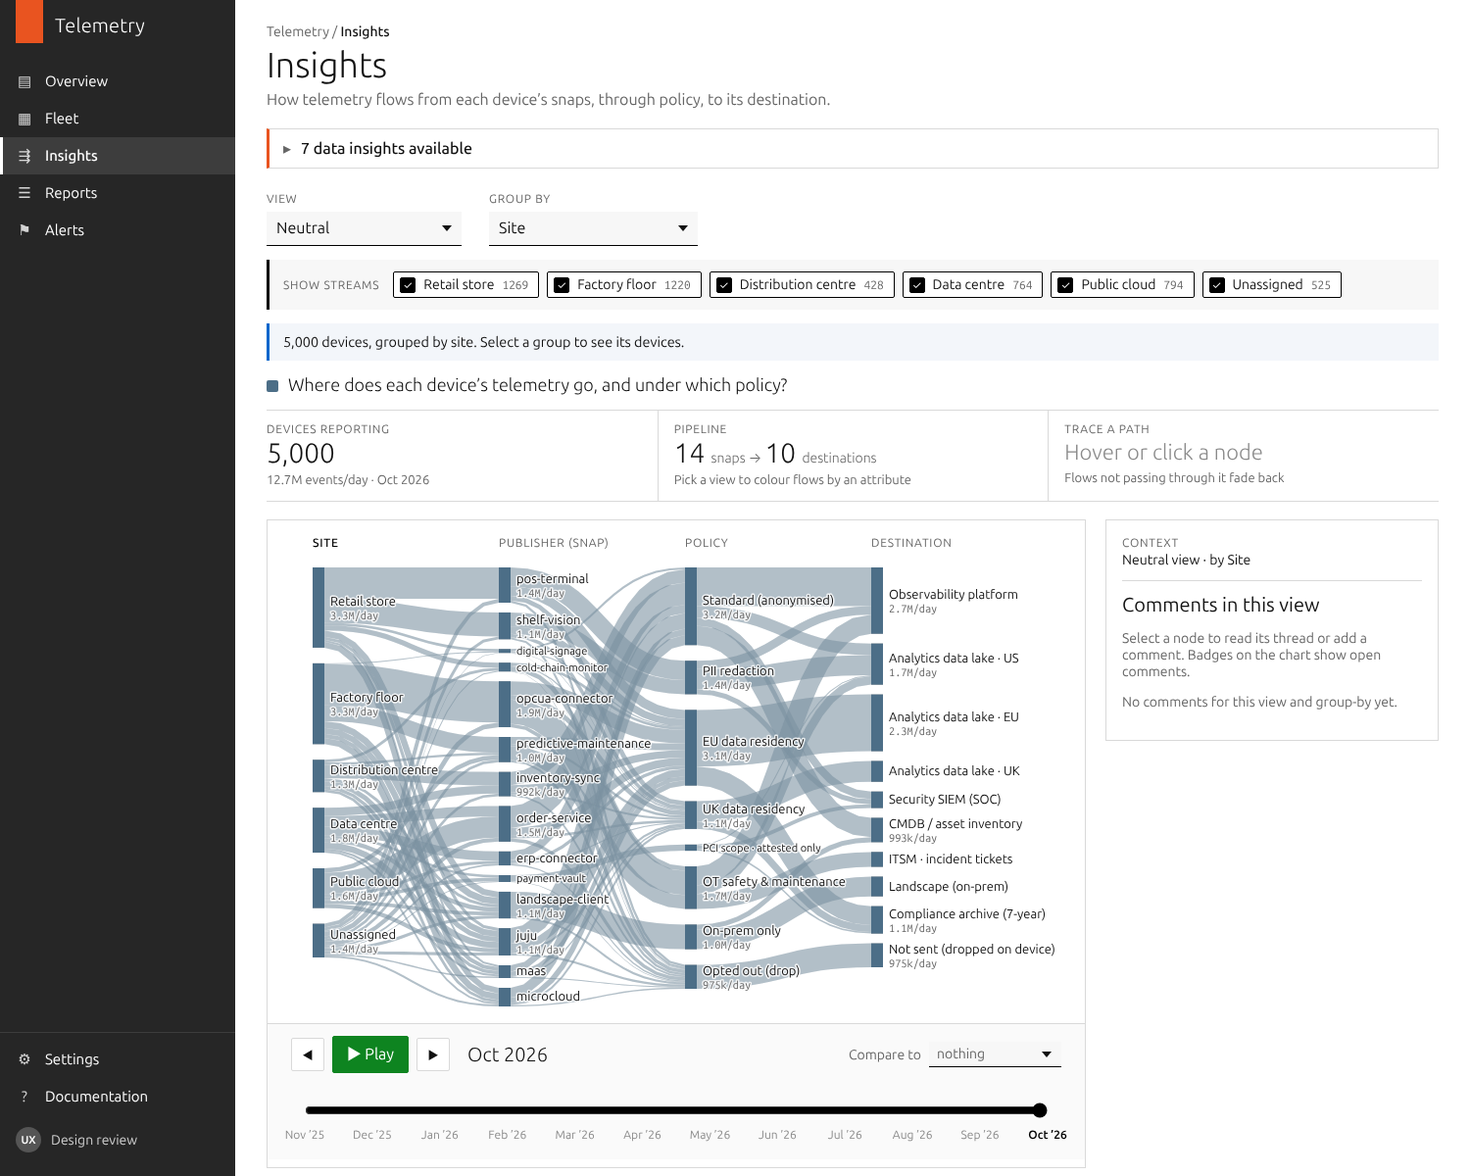
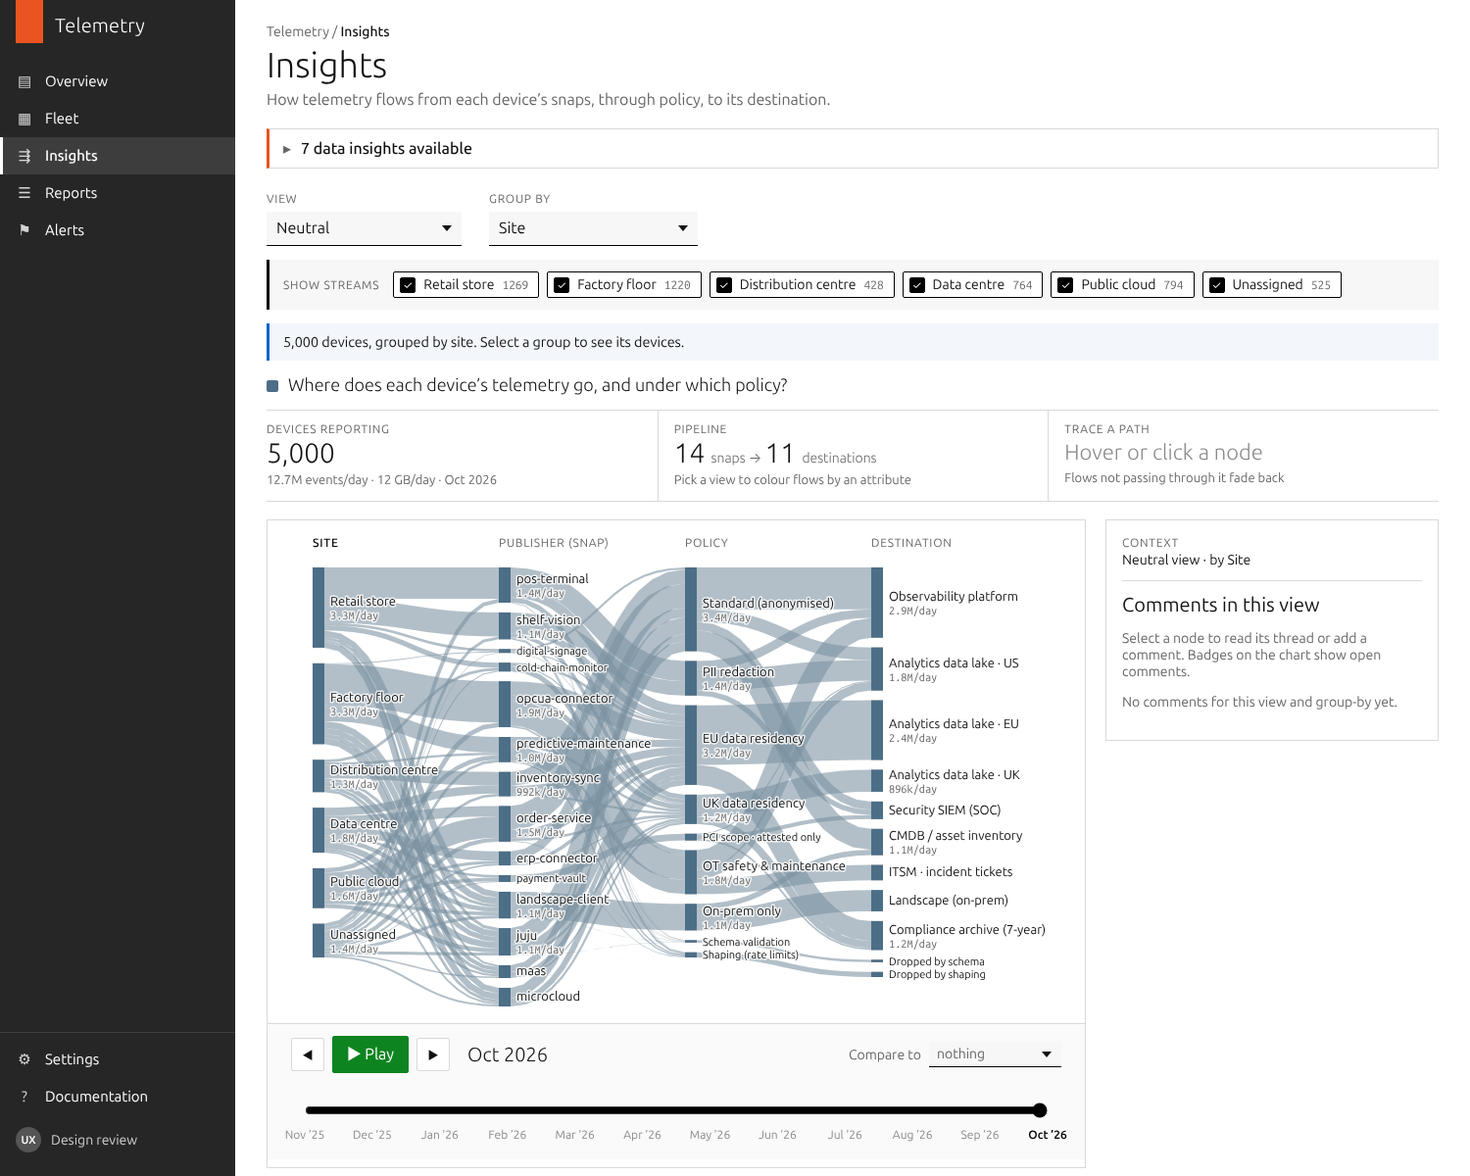
Show data volume, schema/shaping drops and energy coverage
- Drops: replace the opt-out route with 'Dropped by schema' and 'Dropped
  by shaping' (policy nodes + destinations), counted where they happen.
  Schema drops spike for opcua-connector during the Jun/Jul incident.
- Volume: per-snap event sizes give MB/GB per day next to event counts
  in tooltips, the Devices reporting KPI and the pipeline table; the
  endpoint stage shows what was dropped.
- Energy KPI states coverage (measured across N of M devices).
Health, lifecycle and energy data are unchanged.

Claude-Session: https://claude.ai/code/session_0156BKrAD5wHGfcWHmuamSMf

Changed region(s): [[0.3373, 0.4933, 0.7053, 0.8633], [0.6133, 0.4933, 0.6747, 0.5242], [0.276, 0.4008, 0.3373, 0.4317]]

diff --git a/js/app.js b/js/app.js
@@ -368,11 +368,13 @@
   let pipeOpen = false; // destination details collapsed by default
   function drawPipeline() {
     const pi = periodIndex(), ph = TL.pipelineHealth(pi), facts = TL.snapshot(pi);
-    const devs = {}, toDest = {};
-    let received = 0;
+    const devs = {}, toDest = {}, toDestB = {}, dropped = { 'drop-schema': 0, 'drop-shaping': 0 };
+    let received = 0, receivedB = 0;
     facts.forEach(function (f) {
       devs[f.device] = Object.getPrototypeOf(f).reporting;
-      if (f.destination !== 'discard') { received += f.count; toDest[f.destination] = (toDest[f.destination] || 0) + f.count; }
+      received += f.count; receivedB += f.bytes;
+      if (f.destination in dropped) { dropped[f.destination] += f.count; return; }
+      toDest[f.destination] = (toDest[f.destination] || 0) + f.count; toDestB[f.destination] = (toDestB[f.destination] || 0) + f.bytes;
     });
     const ids = Object.keys(devs), ok = ids.filter(function (id) { return devs[id] === 'reporting'; }).length;
     const partial = ids.filter(function (id) { return devs[id] === 'partial'; }).length;
@@ -382,6 +384,7 @@
       return '<tr class="' + (d.status !== 'healthy' ? 'is-degraded' : '') + '" data-pipe-node="destination:' + v.id + '" tabindex="0">' +
         '<td>' + esc(v.label) + (d.note ? '<span class="p-pipeline__note">' + esc(d.note) + '</span>' : '') + '</td>' +
         '<td class="u-num">' + fmt(toDest[v.id] * d.delivered / 100) + '/day</td>' +
+        '<td class="u-num">' + fmtBytes(toDestB[v.id] * d.delivered / 100) + '/day</td>' +
         '<td class="u-num">' + d.delivered.toFixed(d.delivered < 99.9 ? 1 : 2) + '%</td>' +
         '<td class="u-num">' + (d.p95Ms >= 10000 ? Math.round(d.p95Ms / 1000) + ' s' : (d.p95Ms / 1000).toFixed(1) + ' s') + '</td>' +
         '<td>' + badge(d.status) + '</td></tr>';
@@ -398,7 +401,8 @@
         '<div class="p-pipeline__arrow" aria-hidden="true">→</div>' +
         '<div class="p-pipeline__stage"><span class="p-field__label">Telemetry endpoint</span>' +
           '<div class="p-pipeline__big">' + badge('healthy') + ' <span class="p-kpi__unit">' + ph.endpoint.availability.toFixed(2) + '% available</span></div>' +
-          '<div class="p-pipeline__sub">p95 ingest ' + (ph.endpoint.p95IngestMs / 1000).toFixed(1) + ' s · ' + fmt(received) + ' events/day received</div></div>' +
+          '<div class="p-pipeline__sub">p95 ingest ' + (ph.endpoint.p95IngestMs / 1000).toFixed(1) + ' s · ' + fmt(received) + ' events/day (' + fmtBytes(receivedB) + ') received</div>' +
+          '<div class="p-pipeline__sub">Dropped: ' + fmt(dropped['drop-schema']) + ' by schema · ' + fmt(dropped['drop-shaping']) + ' by shaping</div></div>' +
         '<div class="p-pipeline__arrow" aria-hidden="true">→</div>' +
         '<div class="p-pipeline__stage"><span class="p-field__label">Destinations</span>' +
           '<div class="p-pipeline__big">' + (degraded ? badge('degraded') + ' <span class="p-kpi__unit">' + degraded + ' of ' + Object.keys(toDest).length + ' degraded</span>' : badge('healthy') + ' <span class="p-kpi__unit">all ' + Object.keys(toDest).length + ' healthy</span>') + '</div>' +
@@ -406,7 +410,7 @@
       '</div>' +
       '<button type="button" class="p-pipeline__toggle" data-pipe-toggle aria-expanded="' + pipeOpen + '" aria-controls="pipeline-details">' +
         '<span class="p-insights__chevron" aria-hidden="true">▸</span>' + (pipeOpen ? 'Hide' : 'Show') + ' destination details</button>' +
-      '<div class="p-pipeline__tablewrap" id="pipeline-details"' + (pipeOpen ? '' : ' hidden') + '><table class="p-pipeline__table"><thead><tr><th>Destination</th><th class="u-num">Delivered</th><th class="u-num">Success</th><th class="u-num">p95 latency</th><th>Status</th></tr></thead><tbody>' + rows + '</tbody></table></div>';
+      '<div class="p-pipeline__tablewrap" id="pipeline-details"' + (pipeOpen ? '' : ' hidden') + '><table class="p-pipeline__table"><thead><tr><th>Destination</th><th class="u-num">Events</th><th class="u-num">Volume</th><th class="u-num">Success</th><th class="u-num">p95 latency</th><th>Status</th></tr></thead><tbody>' + rows + '</tbody></table></div>';
   }
   $('pipeline-health').addEventListener('click', function (e) {
     if (e.target.closest('[data-pipe-toggle]')) { pipeOpen = !pipeOpen; drawPipeline(); return; }
@@ -424,7 +428,8 @@
     const t = tab(), a = attr(), pi = periodIndex();
     const counts = deviceCounts(pi, view().attr);
     const items = [];
-    items.push(kpi('Devices reporting', counts._total.toLocaleString('en-GB'), fmt(agg.total) + ' events/day · ' + (t.time ? TL.monthLabel(TL.MONTHS[pi]) : 'latest month (' + TL.monthLabel(TL.MONTHS[LAST]) + ')')));
+    let aggBytes = 0; Object.keys(agg.nodes).forEach(function (k) { if (agg.nodes[k].col === 0) aggBytes += agg.nodes[k].b || 0; });
+    items.push(kpi('Devices reporting', counts._total.toLocaleString('en-GB'), fmt(agg.total) + ' events/day · ' + fmtBytes(aggBytes) + '/day · ' + (t.time ? TL.monthLabel(TL.MONTHS[pi]) : 'latest month (' + TL.monthLabel(TL.MONTHS[LAST]) + ')')));
     // distribution bar for the view attribute
     const bar = a.values.map(function (v) {
       const c = counts[v.id] || 0; if (!c) return '';
@@ -434,7 +439,7 @@
     if (isNeutral()) {
       // no breakdown to report: summarise the pipeline instead
       const pubs = {}, dests = {};
-      Object.keys(agg.nodes).forEach(function (k) { const n = agg.nodes[k]; if (n.dim === 'publisher') pubs[k] = 1; if (n.dim === 'destination') dests[k] = 1; });
+      Object.keys(agg.nodes).forEach(function (k) { const n = agg.nodes[k]; if (n.dim === 'publisher') pubs[k] = 1; if (n.dim === 'destination' && !TL.valueOf('destination', n.val).drop) dests[k] = 1; });
       items.push(kpi('Pipeline', Object.keys(pubs).length + ' <span class="p-kpi__unit">snaps → </span>' + Object.keys(dests).length + ' <span class="p-kpi__unit">destinations</span>',
         'Pick a view to colour flows by an attribute'));
     } else if (view().attr === 'reporting' && !iso) {
@@ -455,7 +460,8 @@
       const e = energyAt(pi);
       items.push(kpi('Measured energy',
         (e.total >= 1000 ? (e.total / 1000).toFixed(1) + ' <span class="p-kpi__unit">MWh/month</span>' : Math.round(e.total) + ' <span class="p-kpi__unit">kWh/month</span>'),
-        e.idle + ' idle device' + (e.idle === 1 ? '' : 's') + ' still powered on · ' + Math.round(e.idleKwh) + ' kWh/month<span class="p-dist">' + bar + '</span>',
+        'Measured across ' + e.measured.toLocaleString('en-GB') + ' of ' + e.devices.toLocaleString('en-GB') + ' devices · ' +
+        e.idle + ' idle device' + (e.idle === 1 ? '' : 's') + ' still powered on (' + Math.round(e.idleKwh) + ' kWh)<span class="p-dist">' + bar + '</span>',
         t.time ? sparkline(TL.MONTHS.map(function (_, m) { return energyAt(m).total; }), TL.valueOf('energy', 'e4').color) : ''));
     } else if (view().attr === 'health' && !iso) {
       // health is a score: show the fleet average and its trend
@@ -499,16 +505,23 @@
   }
   // measured energy across (filtered) devices in month m, plus the idle-but-powered share
   const energyAt = memoised('energy', energyAtRaw);
+  // data volume (bytes per day) for display next to event counts
+  function fmtBytes(b) {
+    b = b || 0;
+    if (b >= 1e9) return (b / 1e9).toFixed(b >= 1e10 ? 0 : 1) + ' GB';
+    if (b >= 1e6) return (b / 1e6).toFixed(b >= 1e7 ? 0 : 1) + ' MB';
+    return Math.round(b / 1e3) + ' KB';
+  }
   function energyAtRaw(m) {
-    const seen = {}, f = filterFn(); let total = 0, idle = 0, idleKwh = 0;
+    const seen = {}, f = filterFn(); let total = 0, idle = 0, idleKwh = 0, measured = 0, devices = 0;
     TL.snapshot(m).forEach(function (x) {
       if (seen[x.device] || (f && !f(x))) return;
-      seen[x.device] = 1;
+      seen[x.device] = 1; devices++;
       if (x.energyKwh == null) return;
-      total += x.energyKwh;
+      measured++; total += x.energyKwh;
       if (x.idle) { idle++; idleKwh += x.energyKwh; }
     });
-    return { total: total, idle: idle, idleKwh: idleKwh };
+    return { total: total, idle: idle, idleKwh: idleKwh, measured: measured, devices: devices };
   }
   function bandOf(score) {
     score = Math.round(score);
@@ -756,7 +769,7 @@
     const l = lastLayout && lastLayout.links.filter(function (x) { return x.key === key; })[0];
     if (!l) return '';
     return '<strong>' + esc(TL.nodeLabel(l.source)) + ' → ' + esc(TL.nodeLabel(l.target)) + '</strong>' +
-      '<div>' + fmt(l.value) + ' events/day</div>' + segBreakdown(l.seg, l.value);
+      '<div>' + fmt(l.value) + ' events/day · ' + fmtBytes(l.b) + '/day</div>' + segBreakdown(l.seg, l.value);
   }
   function tipForNode(id) {
     const n = lastLayout && lastLayout.nodes.filter(function (x) { return x.id === id; })[0];
@@ -766,7 +779,7 @@
     if (n.dim === 'device' && n.val === '__others') {
       const top = topSet();
       return '<div class="tooltip__dim">Devices outside the top ' + LADDER.top + '</div><strong>' + esc(v.label) + '</strong>' +
-        '<div>' + fmt(n.value) + ' events/day · ' + Math.round((top ? top.share : 0) * 100) + '% of telemetry</div>' +
+        '<div>' + fmt(n.value) + ' events/day · ' + fmtBytes(n.b) + '/day · ' + Math.round((top ? top.share : 0) * 100) + '% of telemetry</div>' +
         (top && top.attention && top.attention.inOthers ? '<div>Includes ' + top.attention.inOthers.toLocaleString('en-GB') + ' ' + esc(top.attention.label) + '</div>' : '') +
         segBreakdown(n.seg, n.value) + '<div class="tooltip__hint">Group devices, or search, to see them individually</div>';
     }
@@ -798,11 +811,12 @@
     }
     if (n.dim === 'policy') {
       const rules = TL.ROUTING.filter(function (r) { return r.policy === n.val; });
-      body += '<div class="tooltip__hint">Rule ' + rules.map(function (r) { return r.id; }).join(', ') + '</div>';
+      body += '<div class="tooltip__hint">' + (rules.length ? 'Rule ' + rules.map(function (r) { return r.id; }).join(', ')
+        : 'Applied to every snap before routing rules; dropped events are counted') + '</div>';
     }
     const cnt = tab().comments ? (TL.comments.counts(ctx())[id] || 0) : 0;
     return '<div class="tooltip__dim">' + esc(TL.DIMENSIONS[n.dim].label) + '</div>' +
-      '<strong>' + esc(v.label) + '</strong><div>' + fmt(n.value) + ' events/day</div>' + body +
+      '<strong>' + esc(v.label) + '</strong><div>' + fmt(n.value) + ' events/day · ' + fmtBytes(n.b) + '/day</div>' + body +
       '<div class="tooltip__hint">' + (pinned === id ? (cnt ? cnt + ' comment' + (cnt > 1 ? 's' : '') + ' in the panel' : 'Add a comment in the panel') :
         (cnt ? cnt + ' comment' + (cnt > 1 ? 's' : '') + ' · ' : '') + (n.dim === 'device' ? 'Click to pin details and comment' : 'Click to ' + (cnt ? 'open thread' : 'comment'))) + '</div>';
   }

diff --git a/js/data.js b/js/data.js
@@ -213,7 +213,8 @@ window.TL = window.TL || {};
     { id: 'attested', label: 'PCI scope · attested only' },
     { id: 'ot', label: 'OT safety & maintenance' },
     { id: 'local', label: 'On-prem only' },
-    { id: 'drop', label: 'Opted out (drop)' }] };
+    { id: 'schema', label: 'Schema validation' },
+    { id: 'shaping', label: 'Shaping (rate limits)' }] };
   // Destinations are the customer's own systems (illustrative roles for a
   // large enterprise). `zone` = where the system stores data, used to spot
   // telemetry leaving its residency zone.
@@ -227,7 +228,8 @@ window.TL = window.TL || {};
     { id: 'itsm', label: 'ITSM · incident tickets', zone: 'us' },
     { id: 'landscape', label: 'Landscape (on-prem)', zone: 'onprem' },
     { id: 'archive', label: 'Compliance archive (7-year)', zone: 'onprem' },
-    { id: 'discard', label: 'Not sent (dropped on device)', zone: 'device' }] };
+    { id: 'drop-schema', label: 'Dropped by schema', zone: 'none', drop: true, note: 'Events that didn’t match the snap’s registered schema' },
+    { id: 'drop-shaping', label: 'Dropped by shaping', zone: 'none', drop: true, note: 'Events over the snap’s rate limit, or sampled out' }] };
 
   // ---- Policy rules (ordered, first match wins) -----------------------
   // `when` matches device attributes and/or publisher; `to` lists
@@ -235,7 +237,6 @@ window.TL = window.TL || {};
   //   'snapd'    – on the device, before the stream leaves it
   //   'endpoint' – at the telemetry endpoint, after demultiplexing
   const ROUTING = [
-    { id: 'R1', at: 'snapd', when: { consent: 'optout' }, policy: 'drop', to: [['discard', 1]] },
     { id: 'R2', at: 'endpoint', when: { publisher: 'payment' }, policy: 'attested', to: [['siem', 0.6], ['archive', 0.25], ['lake-us', 0.15]] },
     { id: 'R3', at: 'endpoint', when: { publisher: 'landscape' }, policy: 'local', to: [['landscape', 0.8], ['cmdb', 0.2]] },
     { id: 'R4', at: 'endpoint', when: { sovereignty: 'eu' }, policy: 'eu-res', to: [['lake-eu', 0.75], ['archive', 0.25]] },
@@ -274,6 +275,16 @@ window.TL = window.TL || {};
     ['sfo', 'edge', 2], ['sfo', 'k8s', 1], ['sfo', 'vm', 2],
     ['sgp', 'metal', 1], ['sgp', 'edge', 3], ['sgp', 'vm', 1]
   ];
+  // Drops are counted where they happen, so their volume is known.
+  // Schema: events that don't match the snap's registered schema (spikes while
+  // opcua-connector r214 crash-loops, Jun/Jul 2026). Shaping: rate limits / sampling.
+  const SCHEMA_DROP = { shelfcam: 0.02, payment: 0.001, predmaint: 0.012 };
+  const SCHEMA_DROP_INCIDENT = { 7: 0.18, 8: 0.12 }; // opcua-connector, by month
+  const SHAPING_DROP = { shelfcam: 0.06, predmaint: 0.05, plc: 0.03, pos: 0.01, order: 0.015, dns: 0.08 };
+  // typical event size per snap, in bytes (for data volume)
+  const EVENT_BYTES = { pos: 850, shelfcam: 2600, signage: 320, coldchain: 220, plc: 420, predmaint: 1300, inventory: 650,
+    order: 950, erp: 1600, payment: 700, landscape: 1200, juju: 520, maas: 430, microcloud: 470,
+    homeauto: 300, media: 520, filesync: 410, dns: 160 };
   const BASE_RATE = { pos: 900, shelfcam: 1400, signage: 120, coldchain: 300, plc: 1100, predmaint: 700,
     inventory: 800, order: 1000, erp: 500, payment: 300, landscape: 350, juju: 350, maas: 250, microcloud: 300,
     homeauto: 600, media: 250, filesync: 400, dns: 900 };
@@ -517,12 +528,19 @@ window.TL = window.TL || {};
       publishersFor(d, a).forEach(function (pub) {
         const r = route(a, pub);
         const base = BASE_RATE[pub] * vol * (pub === 'plc' && INCIDENT.volume[m] ? INCIDENT.volume[m] : 1);
-        r.to.forEach(function (t) {
-          // a fact inherits the device's attributes (shared, not copied: matters at 5,000 devices)
+        const schemaF = (pub === 'plc' && SCHEMA_DROP_INCIDENT[m]) || SCHEMA_DROP[pub] || 0.006;
+        const shapingF = SHAPING_DROP[pub] || 0;
+        const size = EVENT_BYTES[pub] || 600;
+        // a fact inherits the device's attributes (shared, not copied: matters at 5,000 devices)
+        const push = function (policy, dest, rule, count) {
           const f = Object.create(a);
-          f.device = d.id; f.publisher = pub; f.policy = r.policy; f.destination = t[0]; f.rule = r.id; f.count = base * t[1];
+          f.device = d.id; f.publisher = pub; f.policy = policy; f.destination = dest; f.rule = rule; f.count = count; f.bytes = count * size;
           facts.push(f);
-        });
+        };
+        push('schema', 'drop-schema', 'Schema', base * schemaF);
+        if (shapingF) push('shaping', 'drop-shaping', 'Shaping', base * shapingF);
+        const kept = base * (1 - schemaF - shapingF);
+        r.to.forEach(function (t) { push(r.policy, t[0], r.id, kept * t[1]); });
       });
     });
     cache[m] = facts;
@@ -678,7 +696,7 @@ window.TL = window.TL || {};
     const endpoint = { availability: 99.95 + r() * 0.04, p95IngestMs: Math.round(280 + r() * 220) };
     const destinations = {};
     DESTINATIONS.values.forEach(function (v) {
-      if (v.id === 'discard') return;
+      if (v.drop) return;
       destinations[v.id] = { delivered: 99.8 + r() * 0.19, p95Ms: Math.round(400 + r() * 1400), status: 'healthy' };
     });
     if (m === MONTHS.length - 1) destinations.siem = { delivered: 96.4, p95Ms: 38000, status: 'degraded', note: 'Rate-limited by the SIEM; failed deliveries are being retried' };

diff --git a/js/sankey.js b/js/sankey.js
@@ -28,7 +28,7 @@
     for (let i = 0; i < facts.length; i++) {
       const fact = facts[i];
       if (opts.filter && !opts.filter(fact)) continue;
-      const c = fact.count, sv = seg ? fact[seg] : '_';
+      const c = fact.count, by = fact.bytes || 0, sv = seg ? fact[seg] : '_';
       const fo = opts.focus && opts.focus(fact) ? c : 0;
       total += c; addSeg(totalSeg, sv, c);
       let prev = null;
@@ -36,12 +36,12 @@
         // opts.col0 can remap column 1 (e.g. devices outside the top N become 'Others')
         const val = s === 0 && opts.col0 ? opts.col0(fact) : fact[stages[s]];
         const id = stages[s] + ':' + val;
-        const n = nodes[id] || (nodes[id] = { id: id, dim: stages[s], val: val, col: s, value: 0, f: 0, seg: {}, segF: {} });
-        n.value += c; n.f += fo; addSeg(n.seg, sv, c); if (fo) addSeg(n.segF, sv, fo);
+        const n = nodes[id] || (nodes[id] = { id: id, dim: stages[s], val: val, col: s, value: 0, b: 0, f: 0, seg: {}, segF: {} });
+        n.value += c; n.b += by; n.f += fo; addSeg(n.seg, sv, c); if (fo) addSeg(n.segF, sv, fo);
         if (prev) {
           const key = prev + '>' + id;
-          const l = links[key] || (links[key] = { key: key, source: prev, target: id, col: s - 1, value: 0, f: 0, seg: {}, segF: {} });
-          l.value += c; l.f += fo; addSeg(l.seg, sv, c); if (fo) addSeg(l.segF, sv, fo);
+          const l = links[key] || (links[key] = { key: key, source: prev, target: id, col: s - 1, value: 0, b: 0, f: 0, seg: {}, segF: {} });
+          l.value += c; l.b += by; l.f += fo; addSeg(l.seg, sv, c); if (fo) addSeg(l.segF, sv, fo);
         }
         prev = id;
       }
@@ -64,6 +64,7 @@
         const x = A[k], y = B[k];
         const o = Object.assign({}, x || y);
         o.value = lerp(x ? x.value : 0, y ? y.value : 0);
+        o.b = lerp(x ? x.b || 0 : 0, y ? y.b || 0 : 0);
         o.f = lerp(x ? x.f : 0, y ? y.f : 0);
         o.seg = mixSeg(x && x.seg, y && y.seg);
         o.segF = mixSeg(x && x.segF, y && y.segF);

diff --git a/index.html b/index.html
@@ -6,7 +6,7 @@
   <title>Insights · Telemetry</title>
   <link rel="preconnect" href="https://fonts.googleapis.com">
   <link rel="stylesheet" href="https://fonts.googleapis.com/css2?family=Ubuntu+Sans:wght@300;400;500;600&family=Ubuntu+Sans+Mono&display=swap">
-  <link rel="stylesheet" href="css/app.css?v=20261103i">
+  <link rel="stylesheet" href="css/app.css?v=20261103k">
 </head>
 <body>
 <div class="l-app">
@@ -97,9 +97,9 @@
 <div class="tooltip" id="tooltip" role="tooltip" hidden></div>
 <dialog class="p-modal" id="assign-dialog" aria-labelledby="assign-title"></dialog>
 
-<script src="js/data.js?v=20261103i"></script>
-<script src="js/sankey.js?v=20261103i"></script>
-<script src="js/comments.js?v=20261103i"></script>
-<script src="js/app.js?v=20261103i"></script>
+<script src="js/data.js?v=20261103k"></script>
+<script src="js/sankey.js?v=20261103k"></script>
+<script src="js/comments.js?v=20261103k"></script>
+<script src="js/app.js?v=20261103k"></script>
 </body>
 </html>

diff --git a/README.md b/README.md
@@ -56,6 +56,23 @@ Reporting status is measured at the **telemetry endpoint**, per device and per s
 - **It follows the incident:** in June and July, factory devices are partially silent because `opcua-connector` was crash-looping.
 - **Other data is unchanged:** reporting status is generated from its own randomness, so health, flows and volumes are as before.
 
+## Drops and data volume
+
+**Drops.** Two drop reasons appear as their own policy nodes and destinations. Both are counted where they happen, so their volume is known.
+
+| Drop | Policy node | Destination | Model |
+|---|---|---|---|
+| Schema | Schema validation | Dropped by schema | Events that don't match the snap's registered schema. About 0.6% by default, higher for `shelf-vision`. Spikes to 18% for `opcua-connector` in June 2026 (12% in July) while r214 crash-loops |
+| Shaping | Shaping (rate limits) | Dropped by shaping | Events over a snap's rate limit, or sampled out. Chatty snaps only, e.g. `shelf-vision` 6% and `predictive-maintenance` 5% |
+
+Both apply to every snap before the routing rules. Telemetry from devices that opted out was never collected, so it isn't part of the pipe and has no route. The consent setting still feeds the health score's policy-compliance input.
+
+**Data volume.** Each snap has a typical event size (`EVENT_BYTES` in `js/data.js`), so data volume appears next to event counts in node and flow tooltips, the Devices reporting headline, and the pipeline health table. That's because customers pay their destinations by volume, not events.
+
+**Energy coverage.** The Energy headline states coverage, e.g. "Measured across 25 of 38 devices". Unmeasured and virtual devices are grey in the Energy view.
+
+**Health weights.** Health stands in for a scoring model to be delivered by Landscape. The components and weights shown here are placeholders that will follow that deliverable. The point is that owning Landscape lets health combine with telemetry.
+
 ## Pipeline health panel
 
 A **Pipeline health** panel at the bottom of the page follows the pipe from left to right, for the month on the timeline:

diff --git a/CLAUDE.md b/CLAUDE.md
@@ -53,6 +53,12 @@ Prototype of the **Insights** page (Telemetry product): a single-page Sankey. Se
 - Do NOT claim snapd queues/buffers telemetry: that's an unconfirmed design question for the snapd/telemetry engineers.
 - Latest month scripted (par-store-02, sgp-dc-01, nyc-cloud-02, fra-store-01, sfo-cloud-02); factory devices partially silent (opcua-connector) in Jun/Jul 2026.
 
+## Drops, volume and coverage (point 5)
+- Drops: "Dropped by schema" (Schema validation) and "Dropped by shaping" (Shaping (rate limits)) — the user's original design. The opt-out route (R1 / "Not sent") was removed; consent still feeds health. Schema drops spike for opcua-connector in Jun/Jul 2026.
+- Data volume (MB/GB per day from per-snap EVENT_BYTES) shown next to events in tooltips, the Devices reporting KPI and the pipeline table.
+- Energy KPI states coverage ("Measured across N of M devices").
+- Health is a representation of a future Landscape deliverable; components/weights will follow it. Don't redesign the scoring.
+
 ## Pipeline health panel
 - Panel at the bottom of the page (user: "a pipeline health at the bottom is fine"): Devices and snaps (reporting normally) → Telemetry endpoint (status, availability, p95 ingest, received) → Destinations (collapsible table, closed by default: delivered/day, success %, p95, Healthy/Degraded badge; row click traces the destination).
 - Security SIEM degraded (rate-limited, retrying) in the latest month only. No markers in the chart; no claims about snapd queueing.
